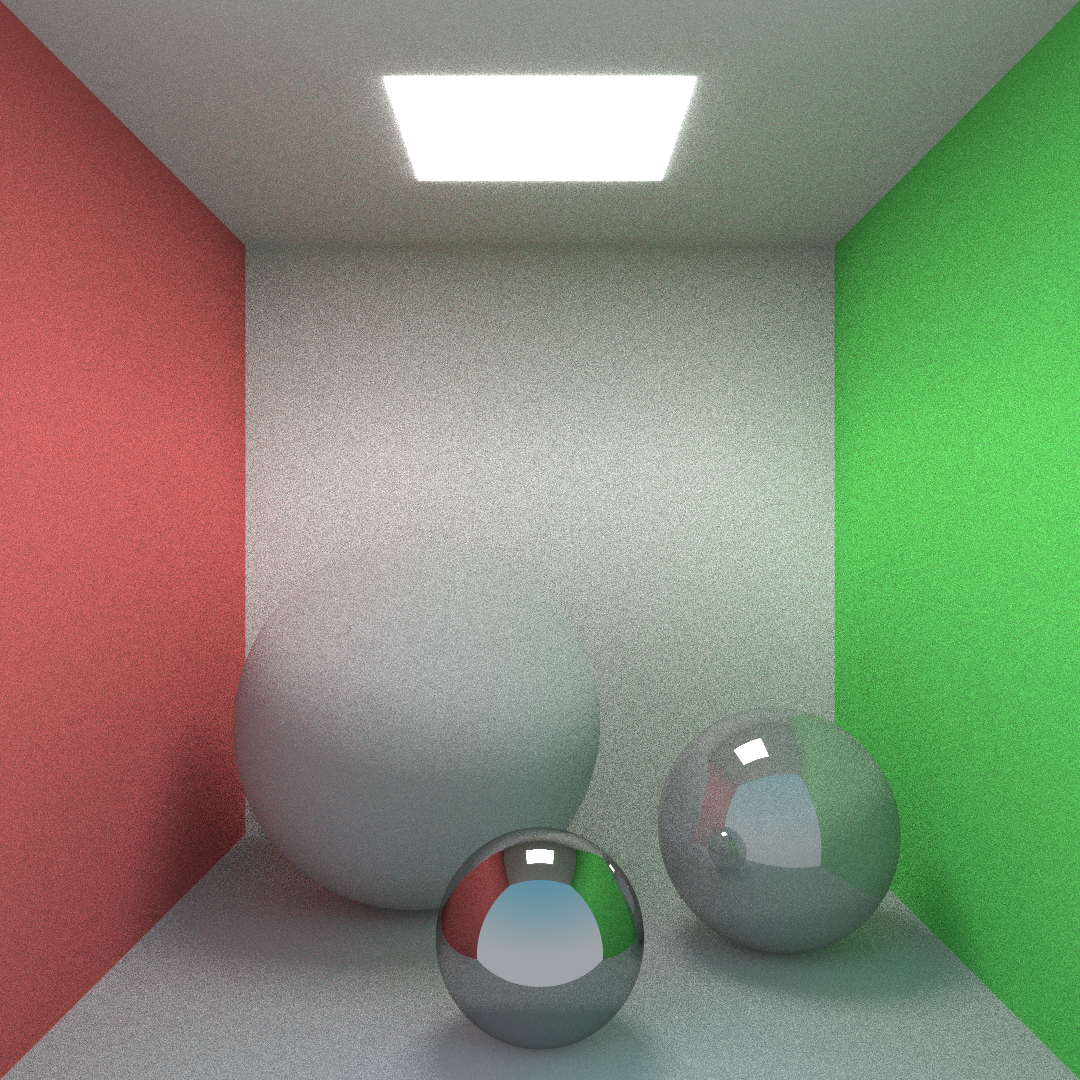
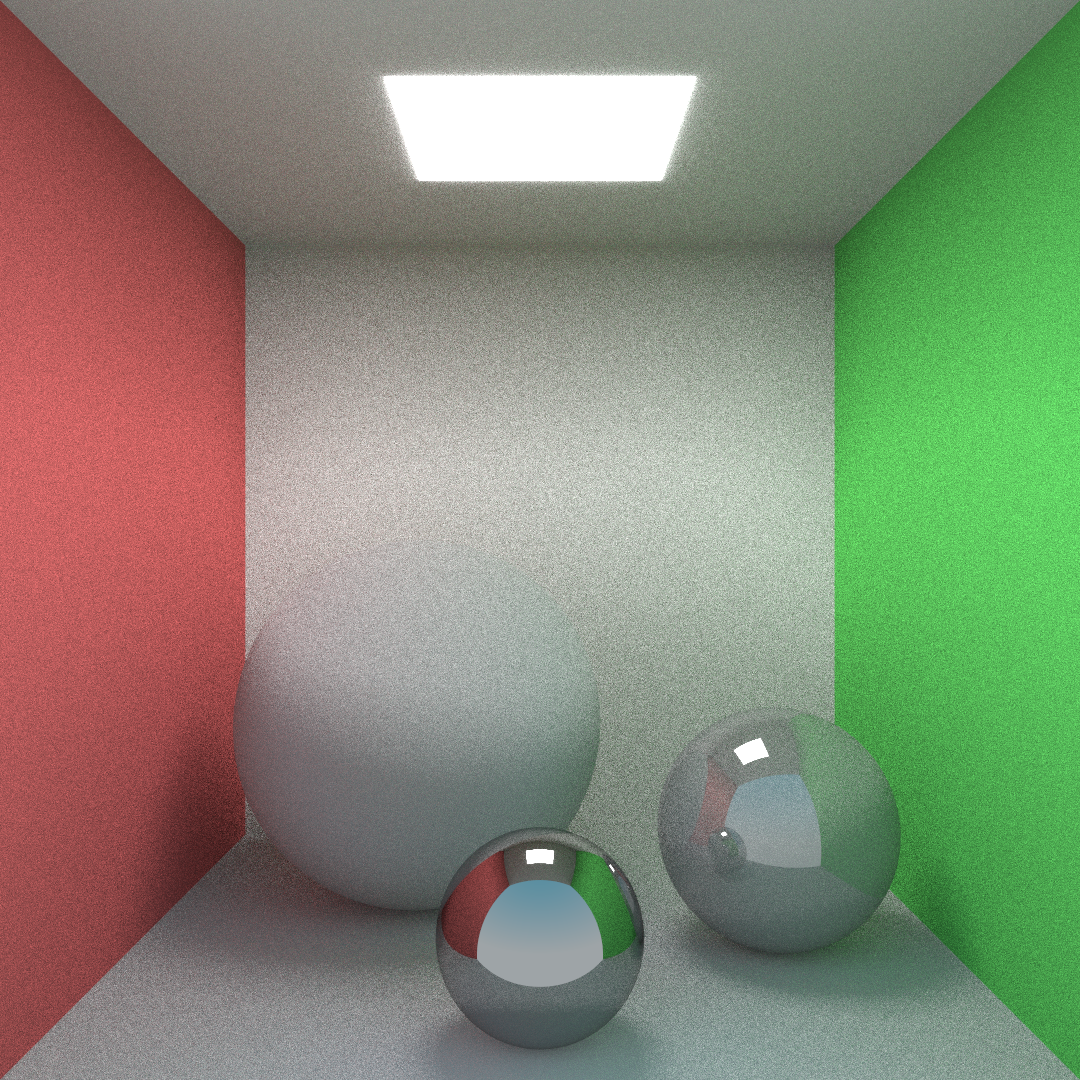
progress

Changed region(s): [[0.0, 0.0611, 1.0, 1.0], [0.2444, 0.7944, 0.275, 0.825]]

diff --git a/src/Renderer.cpp b/src/Renderer.cpp
@@ -45,8 +45,7 @@ Color Renderer::renderPixel(Ray ray, int depth) {
 
     if (depth < this->recursion_depth && material.emissive <= 0) {
         return this->renderPixel(Ray(intersect.collisionPoint + (ndir * 0.001f), ndir), depth + 1).multiply(
-                material.color.divide(255)).multiply(this->light_loss).divide(
-                dot(rec.normal, scattered.direction()) / M_PI);
+                material.color.divide(255)).multiply(this->light_loss);
     } else {
         return material.color.multiply(material.emissive);
     }
